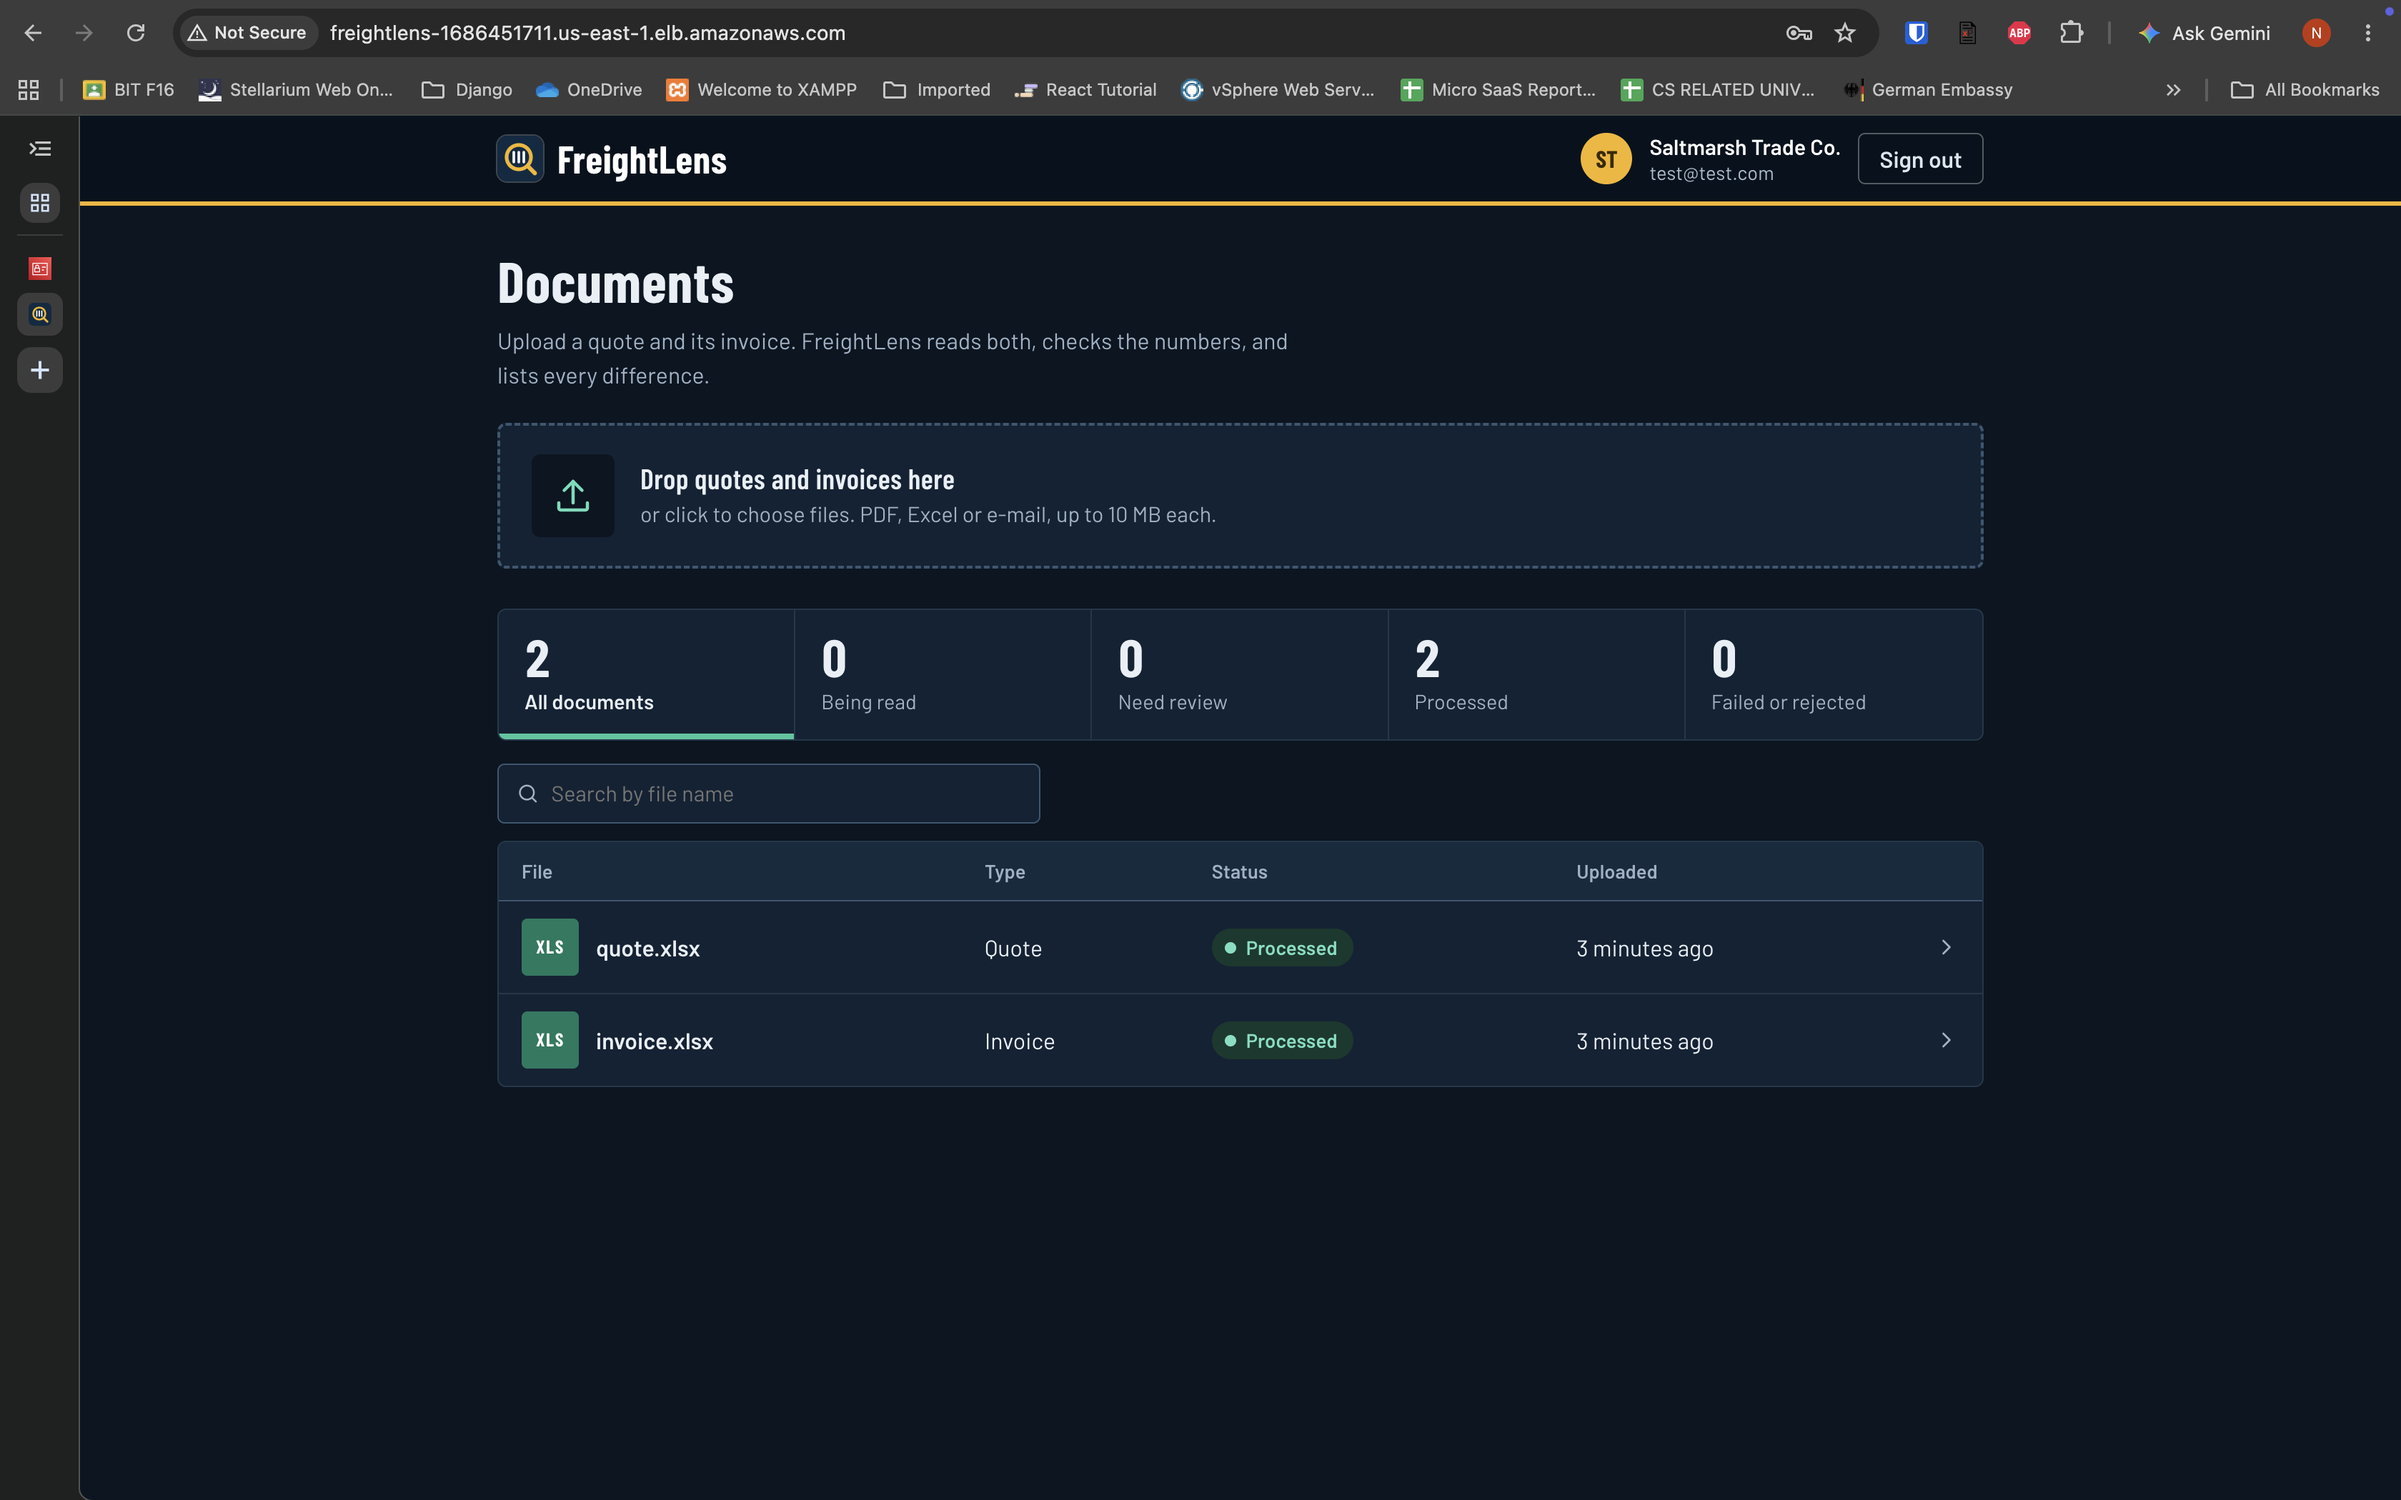
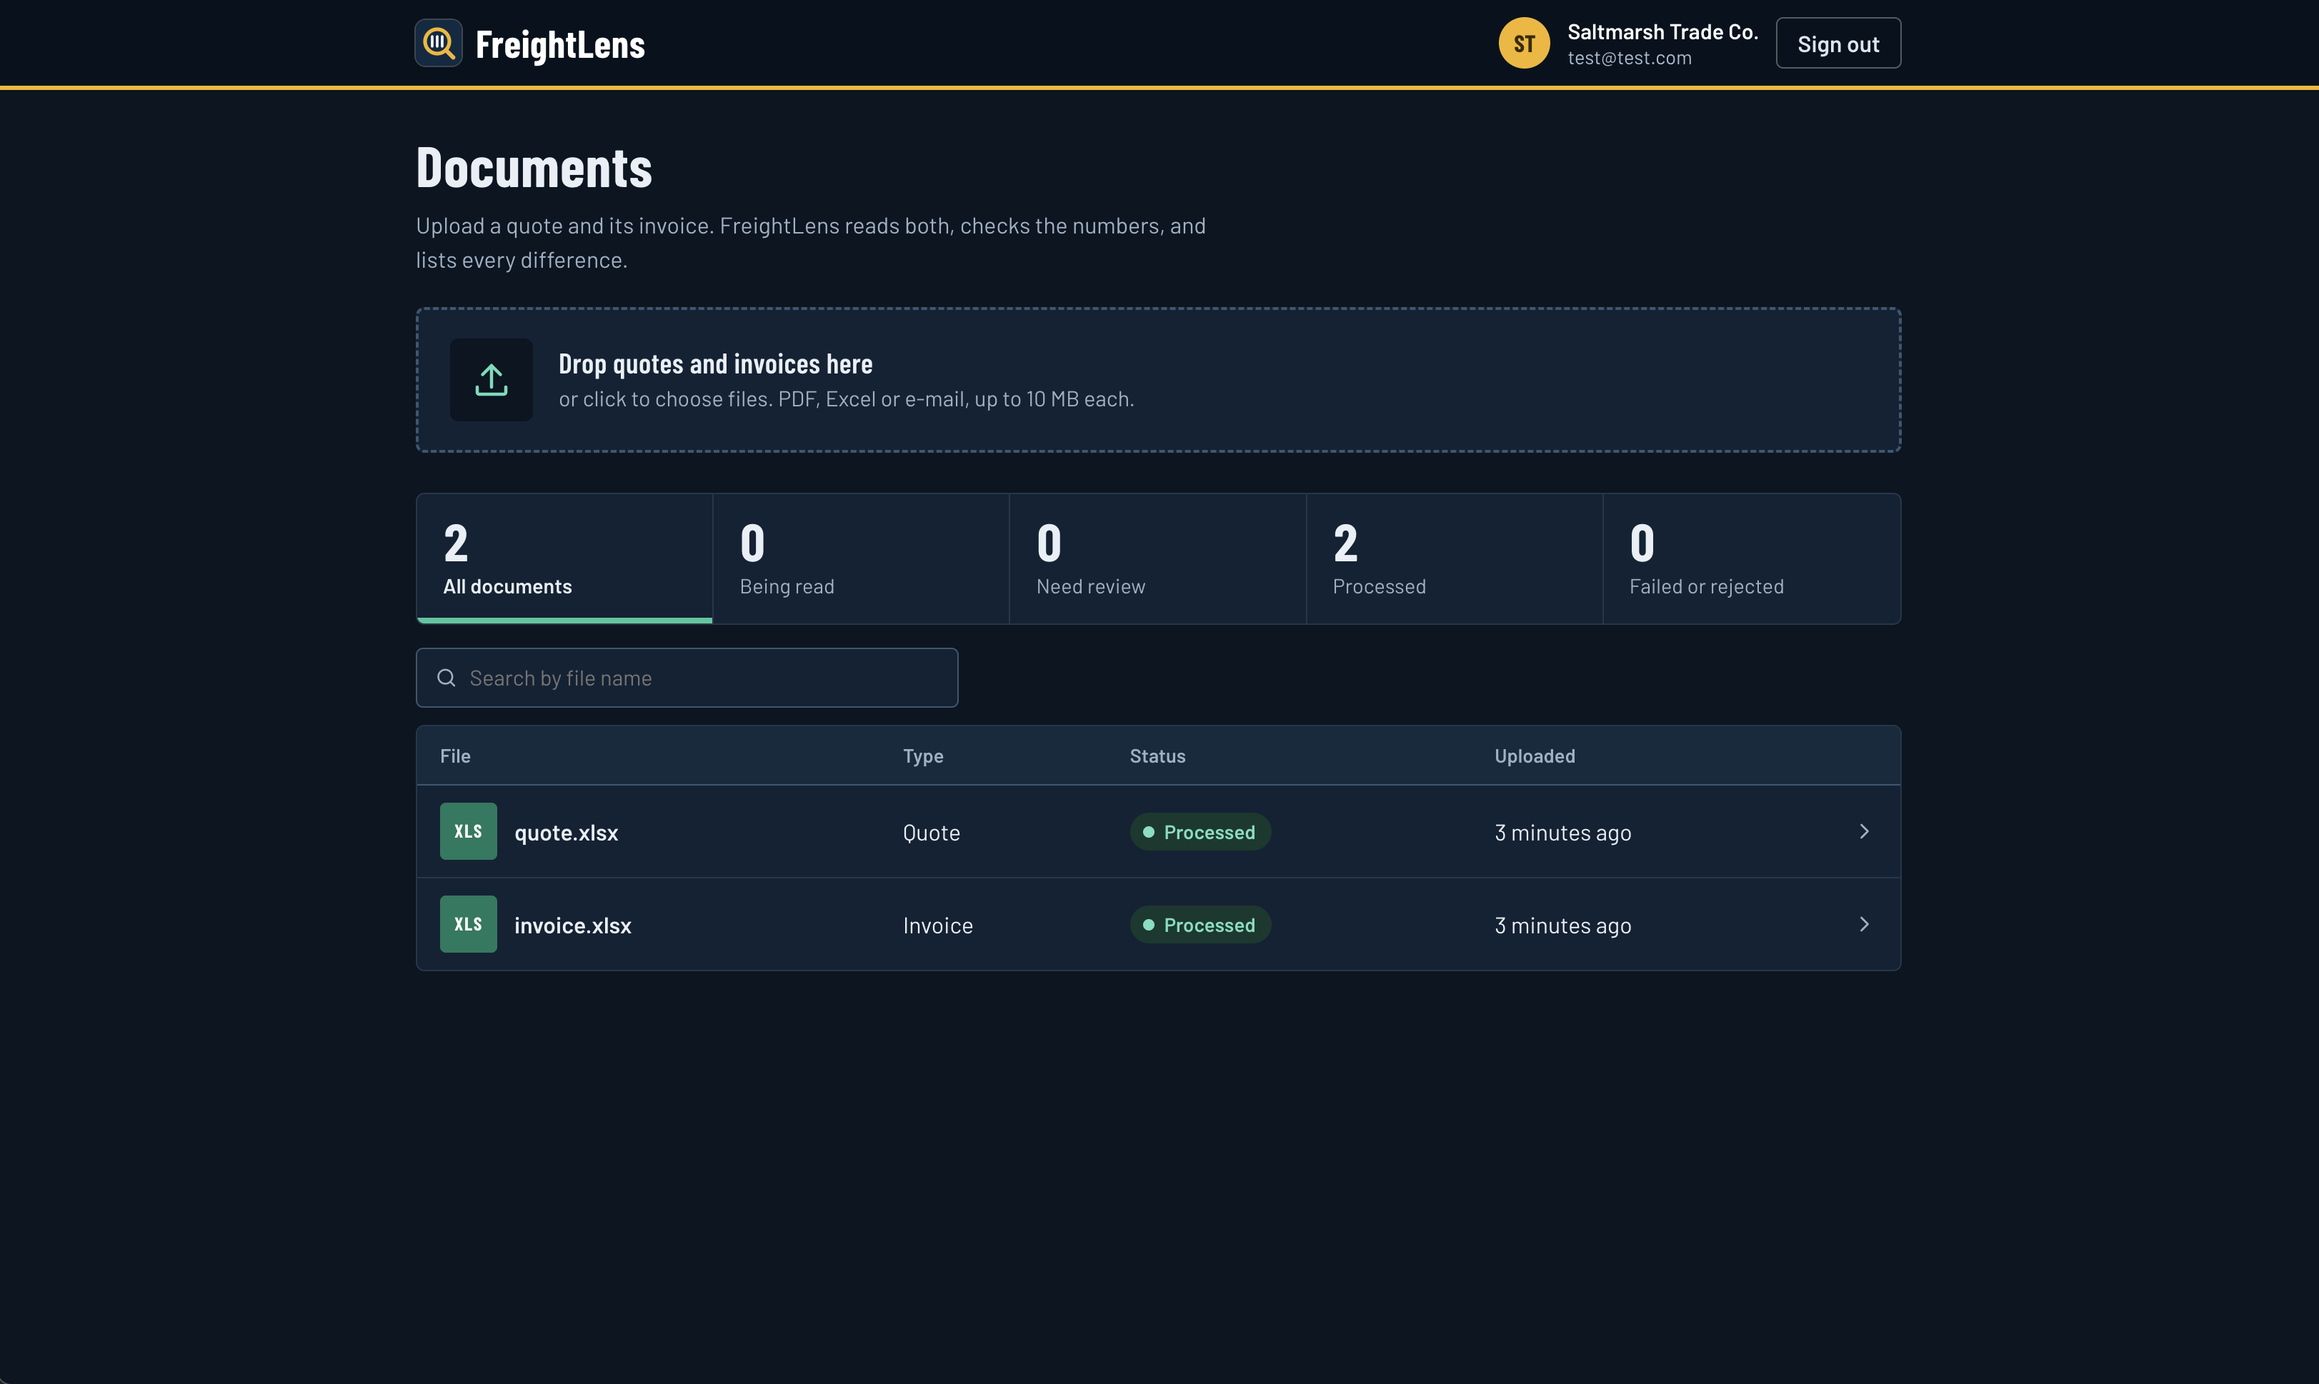
Link the demo video on Drive and finish the roadmap
Replace the AWS screenshots with cropped versions without the browser bookmarks.

Remove the optional alarms, HTTPS and deploy pipeline row and mark the demo video done.

diff --git a/README.md b/README.md
@@ -17,7 +17,7 @@ reconcile), an evaluation harness with a CI quality gate and the multi-tenant fo
 
 ## Demo
 
-[![Watch the 3-minute demo](docs/images/demo-poster.png)](docs/demo/freightlens-demo.mp4)
+[![Watch the 3-minute demo](docs/images/demo-poster.png)](https://drive.google.com/file/d/1Ans79KVIUGE9cpHE9ucLtyvN3p2G8r8J/view?usp=drivesdk)
 
 A captioned walkthrough: create a company account, upload a quote and an invoice, review an overcharge, settle an invoice with a wrong total, then see how the LangGraph agent works. All documents are synthetic.
 
@@ -316,10 +316,9 @@ eval_thresholds.json   limits the evaluation gate checks
 | CI with an evaluation quality gate | done |
 | Web app: sign in, upload, review, compare | done |
 | Demo screenshots | done |
-| Demo short video | planned |
+| Demo short video | done |
 | Container images (API and web), Docker Compose full stack | done |
 | S3 storage backend and bootstrap command for an empty database | done |
 | Deployment to AWS with Terraform (ECS Fargate, ALB, RDS, S3), tested and destroyed | done |
-| Alarms, HTTPS, automatic deploy pipeline | planned |
 
 See [`docs/design-doc.md`](docs/design-doc.md) for the full design and the reasoning behind these choices.
